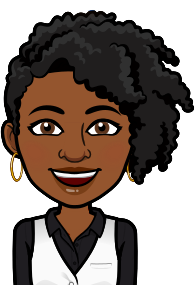
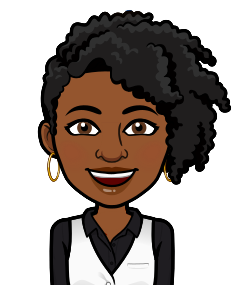
Improve profiles view

diff --git a/src/lib/components/tablet/profiles/ProfileContainer.svelte b/src/lib/components/tablet/profiles/ProfileContainer.svelte
@@ -29,8 +29,7 @@
 		<div class="flex h-full w-1/3 items-center justify-center px-24">
 			<!-- TODO: Make this look more like the specifications -->
 			<div
-				class="flex w-full items-center justify-center rounded-full border-4 border-blue-300 bg-white p-9 shadow-lg shadow-blue-200">
-				<img src={profile.img} alt="" class="h-fit w-fit" />
+				class="flex w-full items-center justify-center rounded-full border-4 border-blue-300 bg-white p-9 shadow-lg shadow-blue-200" id="profilepiccontainer" style="background: url('{profile.img}') white bottom center no-repeat">
 			</div>
 		</div>
 		<div class="flex h-full w-1/3 flex-col space-y-6">
@@ -44,3 +43,15 @@
 		</div>
 	</div>
 </div>
+
+
+<style>
+	#profilepiccontainer {
+		width: 20vw;
+		height: 20vw;
+		background-color: white;
+		background-position-y: bottom;
+		background-position-x: center;
+		background-repeat: no-repeat;
+	}
+</style>

diff --git a/src/lib/components/tablet/profiles/ProfilesApp.svelte b/src/lib/components/tablet/profiles/ProfilesApp.svelte
@@ -35,7 +35,7 @@
 			favoriteBadge: 'Scratch Code Champion',
 			img: Assets.Characters.AgentSpark.talking,
 			interests: [
-				'Build computers and understand how they work',
+				'Build computers and learn how they work',
 				'Read sci-fi books',
 				'Play video games'
 			]

diff --git a/src/lib/components/dialog/DialogBoxAvatar.svelte b/src/lib/components/dialog/DialogBoxAvatar.svelte
@@ -17,3 +17,9 @@
 <div class="mr-14 self-end avatar {avatarClass}">
     <img src={avatar} alt={speaker} style={extraStyle} />
 </div>
+
+<style>
+    .avatar img {
+        max-height: 35vh;
+    }
+</style>
